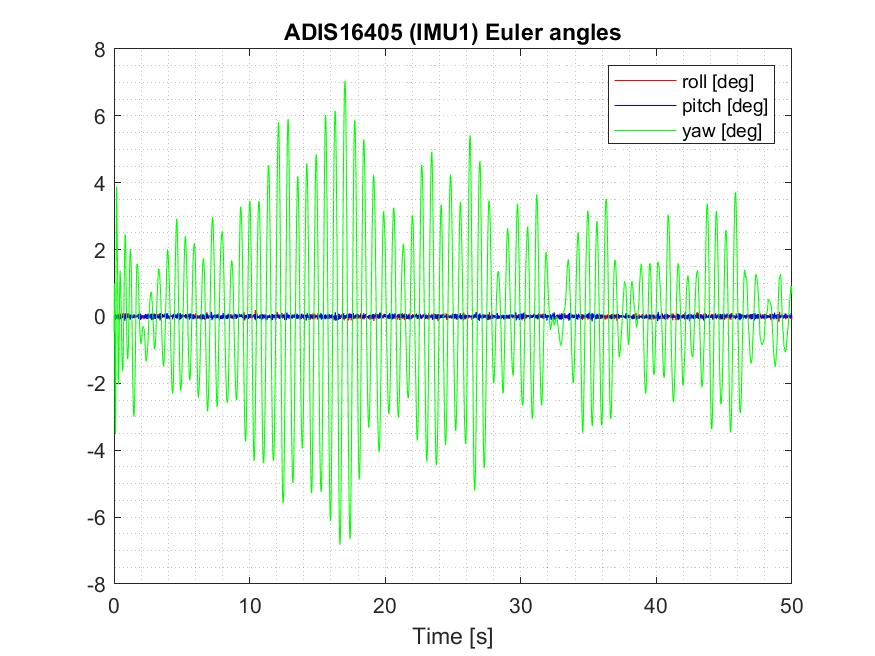
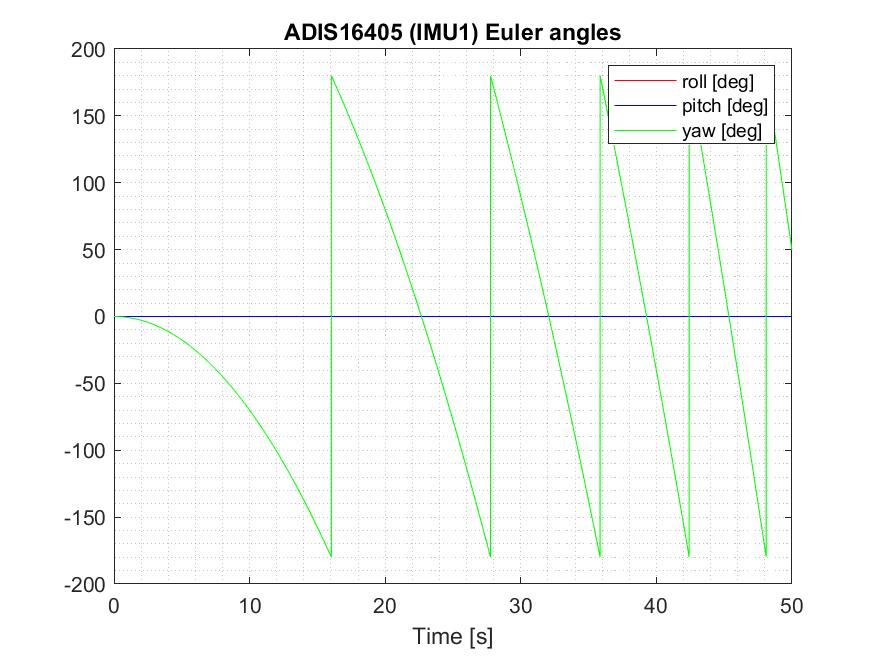
One axis rotation improved. No noise on input variables.

diff --git a/synthetic-data/static_IMU/static_IMU.m b/synthetic-data/static_IMU/static_IMU.m
@@ -75,25 +75,25 @@ load ref.mat
 
 
 load imu1.mat
-
+N = length(imu1.t);
 imu1.ini_align = [0,0,0];
-wbx = zeros(length(imu1.t),1) + imu1.g_std(1)*randn(length(imu1.t),1);
-wby = zeros(length(imu1.t),1) + imu1.g_std(2)*randn(length(imu1.t),1);
-wbz = zeros(length(imu1.t),1) + imu1.g_std(3)*randn(length(imu1.t),1);
+wbx = zeros(N,1) 
+wby = zeros(N,1); 
+wbz = zeros(N,1); 
 
 imu1.wb = [wbx, wby, wbz];
 
-abx = zeros(length(imu1.t),1) + 0.01*randn(length(imu1.t),1);
-aby = zeros(length(imu1.t),1) + 0.01*randn(length(imu1.t),1);
-abz = 9.81*ones(length(imu1.t),1) + 0.01*randn(length(imu1.t),1);
+abx = zeros(N,1); 
+aby = zeros(N,1); 
+abz = -9.81*ones(N,1); 
 
 imu1.fb = [abx, aby, abz];
 
-mnx = 0.22*ones(length(imu1.t),1) + 0.01*randn(length(imu1.t),1);
-mny = zeros(length(imu1.t),1) + 0.01*randn(length(imu1.t),1);
-mnz = 0.17*ones(length(imu1.t),1) + 0.01*randn(length(imu1.t),1);
-
-imu1.mn = [mnx, mny, mnz];
+% mnx = 0.22*ones(length(imu1.t),1);
+% mny = zeros(length(imu1.t),1);
+% mnz = 0.17*ones(length(imu1.t),1);
+% 
+% imu1.mn = [mnx, mny, mnz];
 
 figure(1)
 plot(imu1.t,imu1.fb(:,1), 'r', imu1.t, imu1.fb(:,2), 'b', imu1.t, imu1.fb(:,3), 'g')
@@ -112,7 +112,13 @@ title('IMU1 Angular velocity measurements body frame [rad/s]')
 legend('wx','wy','wz')
 saveas(figure(2),'IMU1_angularvelocities_raw.jpg')
 
-
+% figure(3)
+% plot(imu1.t,imu1.mn(:,1), 'r', imu1.t, imu1.mn(:,2), 'b', imu1.t, imu1.mn(:,3), 'g')
+% xlabel('Time [s]')
+% grid on
+% title('IMU1 Local magnetic field [Gauss]')
+% legend('mx','my','mz')
+% saveas(figure(3),'IMU1_magnetometer_raw.jpg')
 %% ADIS16488 IMU2 error profile
 
 % IMU data structure:
@@ -141,39 +147,39 @@ load imu2.mat
 
 imu2.ini_align = [0,0,0];
 
-wbx = zeros(length(imu2.t),1) + imu2.g_std(1)*randn(length(imu2.t),1);
-wby = zeros(length(imu2.t),1) + imu2.g_std(2)*randn(length(imu2.t),1);
-wbz = zeros(length(imu2.t),1) + imu2.g_std(3)*randn(length(imu2.t),1);
+wbx = zeros(length(imu2.t),1);
+wby = zeros(length(imu2.t),1);
+wbz = zeros(length(imu2.t),1);
 
 imu2.wb = [wbx, wby, wbz];
 
-abx = zeros(length(imu2.t),1) + 0.01*randn(length(imu2.t),1);
-aby = zeros(length(imu2.t),1) + 0.01*randn(length(imu2.t),1);
-abz = 9.81*ones(length(imu2.t),1) + 0.01*randn(length(imu2.t),1);
+abx = zeros(length(imu2.t),1);
+aby = zeros(length(imu2.t),1);
+abz = -9.81*ones(length(imu2.t),1);
 
 imu2.fb = [abx, aby, abz];
 
-mnx = 0.22*ones(length(imu2.t),1) + 0.01*randn(length(imu2.t),1);
-mny = zeros(length(imu2.t),1) + 0.01*randn(length(imu2.t),1);
-mnz = 0.17*ones(length(imu2.t),1) + 0.01*randn(length(imu2.t),1);
+% mnx = 0.22*ones(length(imu2.t),1);
+% mny = zeros(length(imu2.t),1);
+% mnz = 0.17*ones(length(imu2.t),1);
+% 
+% imu2.mn = [mnx, mny, mnz];
 
-imu2.mn = [mnx, mny, mnz];
-
-figure(3)
+figure(4)
 plot(imu2.t,imu2.fb(:,1), 'r', imu2.t, imu2.fb(:,2), 'b', imu2.t, imu2.fb(:,3), 'g')
 xlabel('Time [s]')
 grid on
 title('IMU2 Acceleration raw measurements body frame [m/s^2]')
 legend('ax','ay','az')
-saveas(figure(3),'IMU1_accelerations_raw.jpg')
+saveas(figure(4),'IMU1_accelerations_raw.jpg')
 
-figure(4)
+figure(5)
 plot(imu2.t,imu2.wb(:,1), 'r', imu2.t, imu2.wb(:,2), 'b', imu2.t, imu2.wb(:,3), 'g')
 xlabel('Time [s]')
 grid on
 title('IMU2 Angular velocity measurements body frame [rad/s]')
 legend('wx','wy','wz')
-saveas(figure(4),'IMU1_angularvelocities_raw.jpg')
+saveas(figure(5),'IMU1_angularvelocities_raw.jpg')
 
 %% SENSOR FUSION AND FILTER
 
@@ -181,9 +187,11 @@ saveas(figure(4),'IMU1_angularvelocities_raw.jpg')
 
 [nav2, kf2] = imu_filter(imu2);
 
+
+
 %% PLOTS
 
-figure(5)
+figure(6)
 plot(nav1.t, nav1.qua(:,1), 'r', nav1.t, nav1.qua(:,2), 'c', nav1.t, nav1.qua(:,3), 'g', nav1.t, nav1.qua(:,4), 'k')
 xlabel('Time [s]')
 legend('q1', 'q2', 'q3', 'q4')
@@ -192,29 +200,29 @@ title('ADIS16405 (IMU1) quaternions')
 %xlim([-20, imu1.t(end) + 20])
 ylim([-1.2 1.2])
 legend('location','southeast')
-saveas(figure(5),'IMU1_quaternions_EKF.jpg')
+saveas(figure(6),'IMU1_quaternions_EKF.jpg')
 
 
-figure(6)
+figure(7)
 plot(nav1.t, nav1.roll, 'r', nav1.t, nav1.pitch, 'b', nav1.t, nav1.yaw, 'g')
 legend('roll [deg]', 'pitch [deg]', 'yaw [deg]')
 xlabel('Time [s]')
 grid minor
 title('ADIS16405 (IMU1) Euler angles')
 %xlim([-20, imu1.t(end) + 20])
-saveas(figure(6),'IMU1_EulerAngles_EKF.jpg')
+saveas(figure(7),'IMU1_EulerAngles_EKF.jpg')
 
-figure(7)
+figure(8)
 plot(nav2.t, nav2.roll, 'r', nav2.t, nav2.pitch, 'b', nav2.t, nav2.yaw, 'g')
 legend('roll [deg]', 'pitch [deg]', 'yaw [deg]')
 xlabel('Time [s]')
 grid minor
 title('ADIS16488 (IMU2) Euler angles')
 %xlim([-20, imu1.t(end) + 20])
-saveas(figure(7),'IMU2_EulerAngles_EKF.jpg')
+saveas(figure(8),'IMU2_EulerAngles_EKF.jpg')
 
 
-figure(8)
+figure(9)
 plot(nav2.t, nav2.qua(:,1), 'r', nav2.t, nav2.qua(:,2), 'c', nav2.t, nav2.qua(:,3), 'g', nav2.t, nav2.qua(:,4), 'k')
 xlabel('Time [s]')
 legend('q1', 'q2', 'q3', 'q4')
@@ -223,7 +231,7 @@ title('ADIS16488 (IMU2) quaternions')
 %xlim([-20, imu1.t(end) + 20])
 ylim([-1.2 1.2])
 legend('location','southeast')
-saveas(figure(8),'IMU2_quaternions_EKF.jpg')
+saveas(figure(9),'IMU2_quaternions_EKF.jpg')
 
 for i = 1:length(nav1.t)
     nav1.quat_error_norm(i,1) = norm(nav1.deltaxp(i,:));
@@ -233,7 +241,7 @@ for i = 1:length(nav2.t)
     nav2.quat_error_norm(i,1) = norm(nav2.deltaxp(i,:));
 end
 
-figure(9)
+figure(10)
 plot(nav1.t, nav1.quat_error_norm, 'r', nav2.t, nav2.quat_error_norm, 'b')
 legend('\deltaq IMU1', '\deltaq IMU2')
 xlabel('Time [s]')

diff --git a/kalman/imu_filter.m b/kalman/imu_filter.m
@@ -49,8 +49,9 @@ O = zeros(3);
 
 
 % Length of time vector
-LI = 10000;
-%LI = length(imu.t);
+
+LI = length(imu.t);
+%LI = 10000;
 
 
 % Preallocation of attitude vectors
@@ -90,12 +91,12 @@ nav.deltaxp = zeros(LI, 6);      % Evolution of Kalman filter a posteriori state
 nav.Phi  = zeros(LI, 36);        % Transition-state matrices, Phi
 nav.Pi = zeros(LI, 36);          % A priori covariance matrices, Pi
 nav.Pp = zeros(LI, 36);          % A posteriori covariance matrices, Pp
-nav.K  = zeros(LI, 36);          % Kalman gain matrices, K
-nav.S  = zeros(LI, 36);           % Innovation matrices, S
+nav.K  = zeros(LI, 18);          % Kalman gain matrices, K
+nav.S  = zeros(LI, 9);           % Innovation matrices, S
 nav.ob = zeros(LI, 1);           % Number of observable states at each acceleromter data
-nav.deltay_prop = zeros(LI,6);   % Propagated measurement error
-nav.deltar = zeros(LI,6);        % Error residual
-nav.deltay = zeros(LI,6);        % Estimated measurement error
+nav.deltay_prop = zeros(LI,3);   % Propagated measurement error
+nav.deltar = zeros(LI,3);        % Error residual
+nav.deltay = zeros(LI,3);        % Estimated measurement error
 nav.wb = zeros(LI, 3);           % Corrected angular velocity
 
 % Prior estimates for initial update
@@ -105,19 +106,16 @@ kf.Pi = diag([imu.ini_align_err, imu.gb_dyn].^2);
 ge = 9.81;
 g_n = [0; 0; ge];
 ab = imu.fb(1,:)';
-mN = 0.22;
-mD = 0.17;
-m_n = [mN; 0; mD];
-mn = imu.mn(1,:)';
-kf.deltay = [DCMbn*ab - g_n; DCMbn*mn - m_n];
+kf.deltay = -DCMbn*ab - g_n;
 
 
 
 % Measurement matrix, constant value over time
-kf.H = [skewm(g_n) O; skewm(m_n) O];
+kf.H = [skewm(g_n) O];
 
 % Correction covariance matrix, constant value over time
-kf.R = diag([imu.a_std, imu.m_psd]).^2;
+kf.R = diag([imu.a_std]).^2;
+%kf.R = diag([0.0001, 0.0001, 0.0001]).^2;
 
 % Propagate prior estimates to get xp(1) and Pp(1)
 kf = kf_update_acc( kf );
@@ -135,7 +133,8 @@ nav.deltay(1,:) = kf.deltay;
 
 
 % Prediction covariance matrix, constant value over time
-kf.Q  = diag([imu.arw, imu.g_std, imu.gb_dyn].^2);
+kf.Q  = diag([imu.g_std, imu.gb_dyn].^2);
+%kf.Q  = diag([1, 1, 1, 1, 1, 1].^2);
 
 
 for i = 2:LI
@@ -152,12 +151,12 @@ for i = 2:LI
       % KALMAN FILTER      
           % PREDICTION         
           kf.F = [-skewm(wb_corrected) -I; O O];
-          kf.J = [DCMbn -I O; O O I];
+          %kf.J = [-DCMbn -I O; O O I];
+          kf.G = [-I O; O I];
           
           % CORRECTION
           ab = imu.fb(i,:)';
-          mn = imu.mn(i,:)';
-          kf.deltay = [DCMbn*ab - g_n; DCMbn*mn - m_n];
+          kf.deltay = -DCMbn*ab - g_n;
           
           % Execution of the Extended Kalman filter
           %kf.deltaxp(1:3) = 0.0;           % states 1:3 are forced to be zero (error-state approach)
@@ -203,8 +202,8 @@ for i = 2:LI
           nav.Phi(i,:)          = reshape(kf.Phi, 1, 36);
           nav.Pi(i,:)           = reshape(kf.Pi, 1, 36);
           nav.Pp(i,:)           = reshape(kf.Pp, 1, 36);
-          nav.K(i,:)            = reshape(kf.K, 1, 36);
-          nav.S(i,:)            = reshape(kf.S, 1, 36);
+          nav.K(i,:)            = reshape(kf.K, 1, 18);
+          nav.S(i,:)            = reshape(kf.S, 1, 9);
           nav.ob(i,:)           = ob;
           nav.deltay_prop(i,:)  = kf.deltay_prop;
           nav.deltar(i,:)       = kf.deltar;

diff --git a/synthetic-data/one_axis_angular_IMU/sinusoidal.m b/synthetic-data/one_axis_angular_IMU/sinusoidal.m
@@ -98,23 +98,21 @@ imu1.ini_align = [0 0 0]; % Initial attitude align at t(1) (radians).
 %% GENERATE SYNTHETIC DATA
 % Generate N samples at a sampling rate of Fs with a sinusoidal frequency
 % of Fc.
-N = 10000;
-Fs = 100;
-Fc = 0.25;
 
-imu1.t = (0:(1/Fs):((N-1)/Fs)).';
+load('zAxisRotation.mat')
 
-imu1.fb(:,1) = zeros(N, 1) + imu1.a_std(1)*randn(N,1);
-imu1.fb(:,2) = zeros(N, 1) + imu1.a_std(2)*randn(N,1);
-imu1.fb(:,3) = 9.81*ones(N,1) + imu1.a_std(3)*randn(N,1);
+%%
+imu1.t = zAxisRotation(:,1);
+N = length(imu1.t);
+imu1.wb(:,1) = zAxisRotation(:,2) 
+imu1.wb(:,2) = zAxisRotation(:,3) 
+imu1.wb(:,3) = zAxisRotation(:,4)
+imu1.fb(:,1) = zAxisRotation(:,5)
+imu1.fb(:,2) = zAxisRotation(:,6) 
+imu1.fb(:,3) = zAxisRotation(:,7) 
 
-imu1.wb(:,1) = pi/2*ones(N,1) + imu1.g_std(1)*randn(N,1);
-imu1.wb(:,2) = zeros(N, 1) + imu1.g_std(2)*randn(N,1);
-imu1.wb(:,3) = zeros(N, 1) + imu1.g_std(3)*randn(N,1);
 
-imu1.mn(:,1) = 0.22*ones(N,1) + imu1.m_psd(1)*randn(N,1);
-imu1.mn(:,2) = zeros(N, 1) + imu1.m_psd(2)*randn(N,1);
-imu1.mn(:,3) = 0.17*ones(N,1) + imu1.m_psd(3)*randn(N,1);
+
 
 
 figure(1)
@@ -176,4 +174,13 @@ xlabel('Time [s]')
 grid minor
 title('ADIS16405 (IMU1) attitude computer Euler angles')
 
+for i = 1:length(nav1.t)
+    nav1.quat_error_norm(i,1) = norm(nav1.deltaxp(i,:));
+end
 
+figure(10)
+plot(nav1.t, nav1.quat_error_norm, 'r')
+xlabel('Time [s]')
+grid minor
+%xlim([-20, nav1.t(end) + 20])
+title('Quaternion error \deltaq IMU')

diff --git a/kalman/kf_prediction.m b/kalman/kf_prediction.m
@@ -6,7 +6,7 @@ function  kf = kf_prediction(kf, dt)
 %       xp: 6x1 a posteriori state vector (old).
 %       Pp: 6x6 a posteriori error covariance matrix (old).
 %        F: 6x6 state transition matrix.
-%        Q: 6x6 process noise covariance matrix.
+%        Q: 9x9 process noise covariance matrix.
 %        J: 6x9 noise matrix.    
 %   	dt: sampling interval. 
 %
@@ -19,10 +19,10 @@ function  kf = kf_prediction(kf, dt)
 
 %%
 
-    kf.Phi = expm(kf.F * dt);
+    kf.Phi = expm(kf.F .* dt);
     kf.deltaxi = kf.Phi * kf.deltaxp;
     
-    kf.Qd = (kf.J * kf.Q * kf.J') .* dt; 
+    kf.Qd = (kf.G * kf.Q * kf.G'); 
     kf.Pi = kf.Phi * kf.Pp * kf.Phi' + kf.Qd;
     kf.Pi =  0.5 .* (kf.Pi + kf.Pi');               % Force Pi to be symmetric matrix
 
